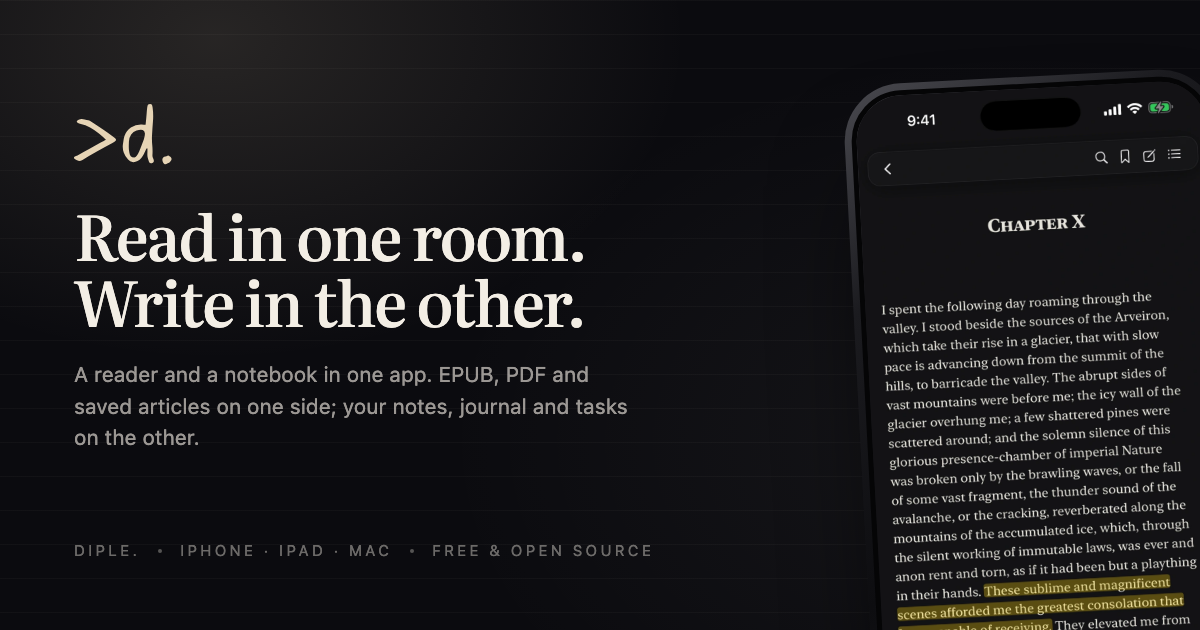
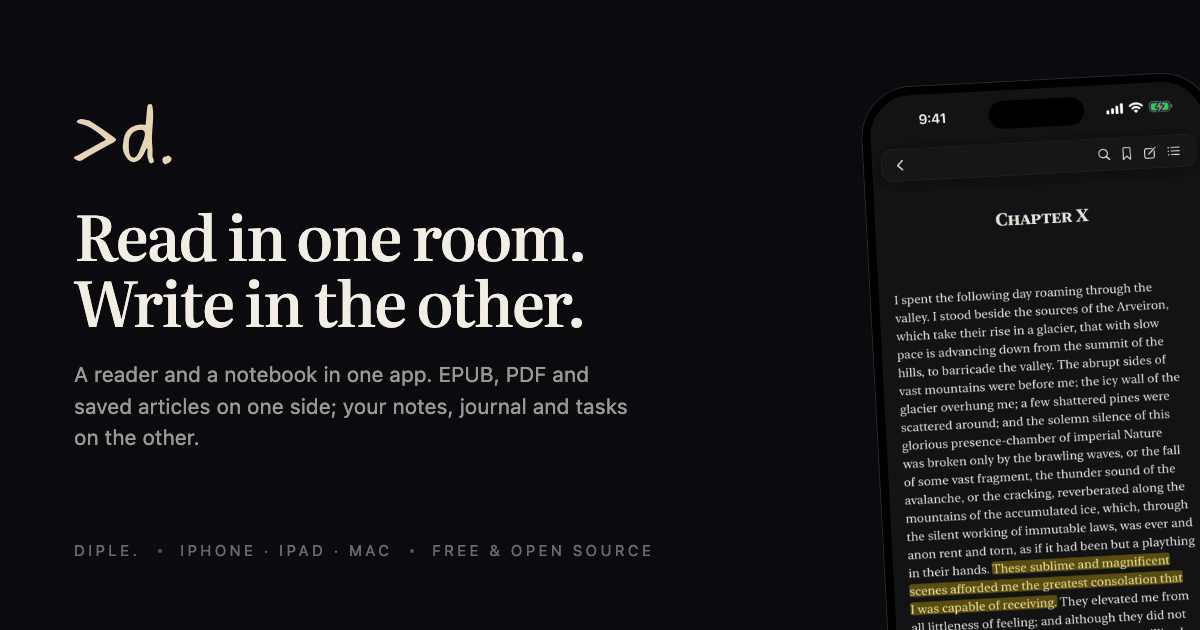
Take every gradient and glow off the page
A phone is now the screen in a black frame and nothing else: no metal band,
no light on it, no accent glow blurred behind it — the grey ovals read as
smudges, not as light. On the near-black page one hairline finds the frame.

The same goes for everything else that faded: the washes and ruled lines
behind the hero and the finale, the cards, the room cards, the passages, the
note editor, the reader's bottom bar, the halo round the icon and the glow
under the primary button. Surfaces are flat tokens. The Open Graph plate is
redrawn on the same terms.

The highlight still crosses the line at a hand's pace, but as one flat
colour; the image under it is only there so its width can be animated.

diff --git a/app/landing.css b/app/landing.css
@@ -14,32 +14,29 @@
 /* ─────────────────────────────  Devices  ───────────────────────────── */
 
 /*
- * The frame is drawn in proportions, not in pixels.
+ * A phone is the screen in a black frame, and nothing else: no metal band, no light on it, no
+ * glow behind it. On a near-black page the frame is found by one hairline at its outer edge.
  *
- * A device's corner radius is a fraction of its width, so a radius in px is only ever right at
- * one size: at 380 it was a phone and at 240 — the hero — it was a lozenge with the corners
- * eating the status bar. The phone is its own query container, and every part of the body is a
- * share of its width: the band, the black bezel, and a screen radius of 13% of the glass, which
- * is what the captures themselves are cut to.
+ * Drawn in proportions, not pixels. A corner radius is a share of the width, so a radius in px
+ * is right at one size only — at 240 the old one turned the body into a lozenge. The phone is
+ * its own query container: the frame is 2.2% of its width and the glass keeps a radius of 12%,
+ * which is what the captures themselves are cut to.
  */
 .phone {
   container-type: inline-size;
   position: relative;
   width: 100%;
   max-width: 380px;
-  padding: 0.65cqw;
-  border-radius: 15cqw;
-  background: linear-gradient(145deg, #55555c 0%, #1b1b1f 20%, #0d0d10 50%, #1b1b1f 80%, #55555c 100%);
-  box-shadow: 0 50px 90px -46px rgba(0, 0, 0, 0.95), 0 2px 6px rgba(0, 0, 0, 0.5);
 }
 
 .phone-screen {
   position: relative;
   aspect-ratio: 1320 / 2868;
-  border: 1.9cqw solid #05050699;
-  border-radius: 14.3cqw;
+  border: 2.2cqw solid #000;
+  border-radius: 14cqw;
   overflow: hidden;
   background: #000;
+  box-shadow: 0 0 0 1px rgba(243, 238, 229, 0.14);
 }
 
 .phone-screen img {
@@ -100,19 +97,6 @@
   position: relative;
   padding-top: clamp(48px, 7vw, 92px);
   overflow: hidden;
-}
-
-/* Colour as light, not paint: a wash of the accent under the mark, on ruled paper. */
-.hero-ground {
-  position: absolute;
-  inset: -20% 0 0;
-  pointer-events: none;
-  background:
-    radial-gradient(900px 620px at 22% 8%, color-mix(in srgb, var(--accent) 11%, transparent), transparent 62%),
-    radial-gradient(1100px 700px at 78% 30%, rgba(243, 238, 229, 0.045), transparent 65%),
-    repeating-linear-gradient(to bottom, rgba(243, 238, 229, 0.028) 0 1px, transparent 1px 34px);
-  -webkit-mask-image: radial-gradient(1200px 780px at 50% 18%, #000 25%, transparent 78%);
-  mask-image: radial-gradient(1200px 780px at 50% 18%, #000 25%, transparent 78%);
 }
 
 .hero-inner {
@@ -281,16 +265,6 @@
   gap: 26px;
 }
 
-.rooms-stage::before {
-  content: "";
-  position: absolute;
-  inset: 12% -14% -6%;
-  background: radial-gradient(60% 50% at 50% 60%, color-mix(in srgb, var(--accent) 13%, transparent), transparent 70%);
-  filter: blur(10px);
-  pointer-events: none;
-  transition: background var(--gentle);
-}
-
 .phone-lg {
   max-width: 312px;
 }
@@ -311,7 +285,6 @@
   border-radius: 999px;
   border: 1px solid var(--hairline);
   background: rgba(243, 238, 229, 0.06);
-  backdrop-filter: blur(12px);
   color: var(--text-1);
   transition: background var(--standard), border-color var(--standard), color var(--standard);
 }
@@ -340,7 +313,6 @@
   border-radius: 999px;
   border: 1px solid var(--hairline);
   background: rgba(243, 238, 229, 0.06);
-  backdrop-filter: blur(12px);
   overflow: hidden;
   transition: width var(--gentle), opacity var(--standard), padding var(--gentle), border-color var(--standard);
 }
@@ -381,7 +353,7 @@
   text-align: left;
   border: 1px solid var(--hairline);
   border-radius: 18px;
-  background: linear-gradient(180deg, rgba(243, 238, 229, 0.04), rgba(243, 238, 229, 0.01));
+  background: var(--surface);
   transition: border-color var(--standard), background var(--standard), transform var(--standard);
 }
 
@@ -391,7 +363,6 @@
 
 .room-card[data-active="true"] {
   border-color: color-mix(in srgb, var(--accent) 45%, transparent);
-  background: linear-gradient(180deg, color-mix(in srgb, var(--accent) 7%, transparent), rgba(243, 238, 229, 0.01));
 }
 
 .room-card-head {
@@ -561,17 +532,13 @@
   opacity: 0.55;
 }
 
-/* The mark, as the app draws it: a stroke crossing the line at a hand's pace with a soft
-   leading edge, each line a beat behind the last. `InkHighlightCSS` holds the same numbers. */
+/* The mark crosses the line at a hand's pace, each line a beat behind the last — the timing
+   `InkHighlightCSS` uses. The fill is one flat colour: the image is only there so its size can
+   be animated, since a background-color cannot be drawn across. */
 .reader-marked mark {
   color: inherit;
   background-color: transparent;
-  background-image: linear-gradient(
-    to right,
-    var(--page-fill) 0%,
-    var(--page-fill) calc(100% - 14px),
-    rgba(0, 0, 0, 0) 100%
-  );
+  background-image: linear-gradient(var(--page-fill), var(--page-fill));
   background-repeat: no-repeat;
   background-position: left center;
   background-size: 0% 100%;
@@ -591,7 +558,7 @@
     background-size: 0% 100%;
   }
   to {
-    background-size: 130% 100%;
+    background-size: 100% 100%;
   }
 }
 
@@ -661,8 +628,7 @@
   position: absolute;
   inset: auto 0 0;
   padding: 14px clamp(20px, 3vw, 34px) 16px;
-  background: linear-gradient(to top, color-mix(in srgb, var(--page-bg) 92%, transparent), transparent);
-  backdrop-filter: blur(6px);
+  background: var(--page-bg);
   color: var(--page-ink);
 }
 
@@ -927,14 +893,6 @@
   gap: 20px;
 }
 
-.margin-shot::before {
-  content: "";
-  position: absolute;
-  inset: 10% -12% 4%;
-  background: radial-gradient(55% 45% at 50% 55%, color-mix(in srgb, var(--accent) 12%, transparent), transparent 70%);
-  filter: blur(8px);
-}
-
 .margin-shot .phone {
   position: relative;
   max-width: 330px;
@@ -976,7 +934,7 @@
 
 .note-demo {
   padding: 22px clamp(20px, 2.4vw, 30px) 20px;
-  background: linear-gradient(180deg, var(--raised), var(--surface));
+  background: var(--surface);
 }
 
 .note-head {
@@ -1331,7 +1289,7 @@
   padding: 18px 18px 16px 20px;
   border-radius: 14px;
   border: 1px solid var(--hairline);
-  background: linear-gradient(180deg, rgba(243, 238, 229, 0.04), rgba(243, 238, 229, 0.012));
+  background: var(--surface);
   transition: opacity var(--gentle), transform var(--gentle), border-color var(--standard);
 }
 
@@ -1754,10 +1712,7 @@ kbd {
   aspect-ratio: 1;
   border-radius: 23.5%;
   background: #0b0b0f;
-  box-shadow:
-    0 0 0 1px rgba(243, 238, 229, 0.08),
-    0 40px 80px -40px rgba(0, 0, 0, 0.9),
-    0 0 90px -30px var(--accent-glow);
+  box-shadow: 0 0 0 1px rgba(243, 238, 229, 0.1);
 }
 
 .app-icon .mark {
@@ -1822,12 +1777,6 @@ kbd {
   overflow: hidden;
   padding-block: clamp(90px, 12vw, 160px);
   border-top: 1px solid var(--separator);
-}
-
-.finale .hero-ground {
-  inset: -30% 0 -30%;
-  -webkit-mask-image: radial-gradient(900px 620px at 50% 50%, #000 20%, transparent 74%);
-  mask-image: radial-gradient(900px 620px at 50% 50%, #000 20%, transparent 74%);
 }
 
 .finale-inner {

diff --git a/app/globals.css b/app/globals.css
@@ -29,7 +29,6 @@
   --vellum: #e6d4b5;
   --accent: var(--vellum);
   --accent-soft: color-mix(in srgb, var(--accent) 14%, transparent);
-  --accent-glow: color-mix(in srgb, var(--accent) 30%, transparent);
   --on-accent: #0b0b0f;
 
   /* The four colours a passage can be marked with. Blue was withdrawn from the picker. */
@@ -220,7 +219,7 @@ button {
 
 .rule {
   height: 1px;
-  background: linear-gradient(90deg, var(--hairline), transparent);
+  background: var(--hairline);
   border: 0;
   margin: 0;
 }
@@ -320,12 +319,10 @@ button {
 .btn-primary {
   background: var(--accent);
   color: var(--on-accent);
-  box-shadow: 0 1px 0 rgba(255, 255, 255, 0.35) inset, 0 18px 40px -24px var(--accent-glow);
 }
 
 .btn-primary:hover {
-  box-shadow: 0 1px 0 rgba(255, 255, 255, 0.4) inset, 0 22px 60px -22px var(--accent-glow);
-  background: color-mix(in srgb, var(--accent) 92%, white);
+  background: color-mix(in srgb, var(--accent) 88%, white);
 }
 
 .btn-ghost {
@@ -367,11 +364,7 @@ button {
   position: relative;
   border: 1px solid var(--hairline);
   border-radius: 20px;
-  background:
-    linear-gradient(180deg, rgba(243, 238, 229, 0.045), rgba(243, 238, 229, 0.012));
-  box-shadow:
-    inset 0 1px 0 rgba(243, 238, 229, 0.06),
-    0 40px 70px -50px rgba(0, 0, 0, 0.9);
+  background: var(--surface);
   overflow: hidden;
 }
 

diff --git a/app/page.tsx b/app/page.tsx
@@ -77,7 +77,6 @@ export default function Home() {
       <main id="top">
         {/* ───────────────────────────  Hero  ─────────────────────────── */}
         <section className="hero">
-          <div className="hero-ground" aria-hidden="true" />
           <div className="wrap hero-inner">
             <div className="hero-copy" data-reveal>
               <Mark id="hero-mark" motion="write" className="hero-mark" />
@@ -430,7 +429,6 @@ export default function Home() {
 
         {/* ───────────────────────────  Download  ─────────────────────────── */}
         <section className="finale" id="download">
-          <div className="hero-ground" aria-hidden="true" />
           <div className="wrap finale-inner" data-reveal>
             <Mark id="finale-mark" motion="write" className="finale-mark" />
             <h2 className="display finale-title">Keep what keeps you.</h2>
